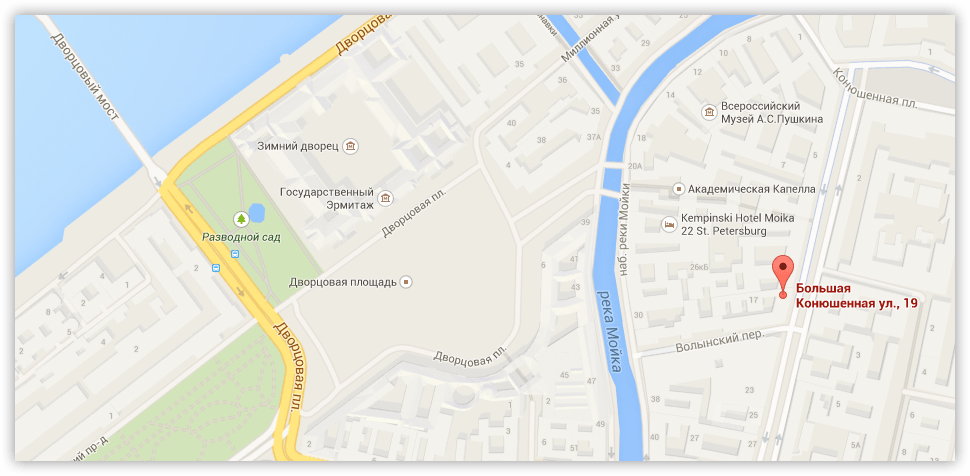
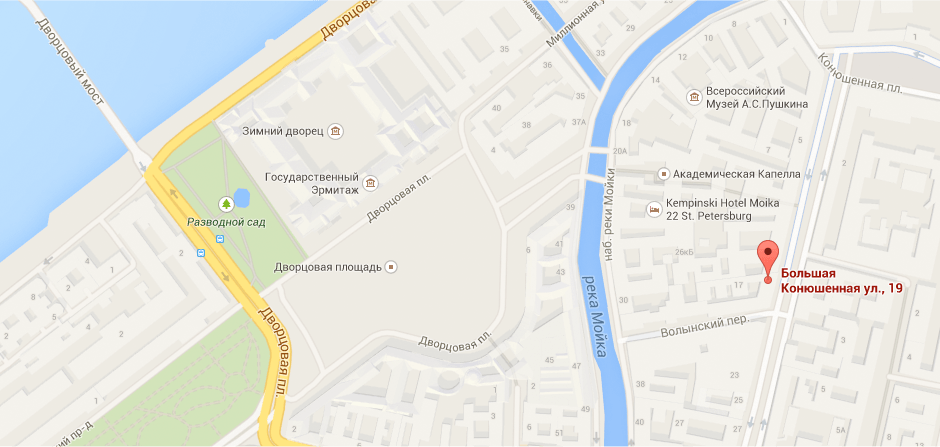
Разметил popup-окна и блок с фильтром

diff --git a/catalog.html b/catalog.html
@@ -61,12 +61,53 @@
       </ul>
       <h1>Перфораторы</h1>
       <div class="catalog-middle">
-        <aside class="sidebar">
-          <!-- Форма с фильтром -->
-        </aside>
+        <section class="sidebar">
+          <h2 class="horiz-pannel title-pannel">Фильтр:</h2><!-- У класса .title-pannel будет псевдоэлемент ::after c content: ":" -->
+          <!-- Форма фильтра -->
+          <form action="" method="GET" class="form-filter">
+            <fieldset>
+              <legend class="title-pannel">Цена:</legend>
+              <!-- здесь будет элемент фильтра по цене -->
+            </fieldset>
+            <fieldset>
+              <legend class="title-pannel">Производители:</legend>
+              <ul class="options-list">
+                <li class="option-item">
+                  <input type="checkbox" name="brand-bosch" id="brand-bosch" value="BOSCH" checked><label for="brand-bosch">BOSCH</label>
+                </li>
+                <li class="option-item">
+                  <input type="checkbox" name="brand-interskol" id="brand-interskol" value="ИНТЕРСКОЛ"><label for="brand-interskol">ИНТЕРСКОЛ</label>
+                </li>
+                <li>
+                  <input type="checkbox" name="brand-makita" id="brand-makita" value="MAKITA" checked><label for="brand-makita">MAKITA</label>
+                </li>
+                <li class="option-item">
+                  <input type="checkbox" name="brand-dewalt" id="brand-dewalt" value="Dewalt"><label for="brand-dewalt">Dewalt</label>
+                </li>
+                <li class="option-item">
+                  <input type="checkbox" name="brand-hitachi" id="brand-hitachi" value="Hitachi"><label for="brand-hitachi">Hitachi</label>
+                </li>
+              </ul>
+            </fieldset>
+            <fieldset>
+              <legend class="title-pannel">Питание:</legend>
+              <ul class="options-list">
+                <li class="option-item">
+                  <input type="radio" name="powertype" id="powertype-battery" value="Аккумуляторные" checked>
+                  <label for="powertype-battery">Аккумуляторные</label>
+                </li>
+                <li class="option-item">
+                  <input type="radio" name="powertype" id="powertype-utility" value="Сетевые">
+                  <label for="powertype-utility">Сетевые</label>
+                </li>
+              </ul>
+            </fieldset>
+            <button type="submit" class="btn-option btn">Показать</button>
+          </form>
+        </section>
         <section class="main-content">
           <div class="horiz-pannel">
-            <p class="title-pannel">Сортировка:</p>
+            <p class="title-pannel">Сортировка:</p><!-- У класса .title-pannel будет псевдоэлемент ::after c content: ":" -->
             <ul>
               <li>
                 <a href="" class="sort-price">По цене</a>
@@ -97,8 +138,8 @@
               <del class="product-price-old">22500 Р.</del>
               <ins class="product-price">15500 Р.</ins>
               <div class="product-item-buttons">
-                <button class="btn-buy btn">Купить</button>
-                <button class="btn-bookmark-add btn">В закладки</button>
+                <button type="button" class="btn-buy btn">Купить</button>
+                <button type="button" class="btn-bookmark-add btn">В закладки</button>
               </div>
             </li>
             <li  class="product-item">
@@ -107,8 +148,8 @@
               <del class="product-price-old">30500 Р.</del>
               <ins class="product-price">25500 Р.</ins>
               <div class="product-item-buttons">
-                <button class="btn-buy btn">Купить</button>
-                <button class="btn-bookmark-add btn">В закладки</button>
+                <button type="button" class="btn-buy btn">Купить</button>
+                <button type="button" class="btn-bookmark-add btn">В закладки</button>
               </div>
             </li>
             <li  class="product-item product-item-new">
@@ -116,8 +157,8 @@
               <img class="poduct-image" src="img/perforator-4.jpg" width="218" height="170" alt="Перфоратор BOSCH BFG 2000">
               <ins class="product-price-old">12500 Р.</ins>
               <div class="product-item-buttons">
-                <button class="btn-buy btn">Купить</button>
-                <button class="btn-bookmark-add btn">В закладки</button>
+                <button type="button" class="btn-buy btn">Купить</button>
+                <button type="button" class="btn-bookmark-add btn">В закладки</button>
               </div>
             </li>
             <li  class="product-item">
@@ -126,8 +167,8 @@
               <del class="product-price-old">22500 Р.</del>
               <ins class="product-price">15500 Р.</ins>
               <div class="product-item-buttons">
-                <button class="btn-buy btn">Купить</button>
-                <button class="btn-bookmark-add btn">В закладки</button>
+                <button type="button" class="btn-buy btn">Купить</button>
+                <button type="button" class="btn-bookmark-add btn">В закладки</button>
               </div>
             </li>
             <li  class="product-item product-item-new">
@@ -136,8 +177,8 @@
               <del class="product-price-old">30500 Р.</del>
               <ins class="product-price">25500 Р.</ins>
               <div class="product-item-buttons">
-                <button class="btn-buy btn">Купить</button>
-                <button class="btn-bookmark-add btn">В закладки</button>
+                <button type="button" class="btn-buy btn">Купить</button>
+                <button type="button" class="btn-bookmark-add btn">В закладки</button>
               </div>
             </li>
             <li  class="product-item">
@@ -145,8 +186,8 @@
               <img class="poduct-image" src="img/perforator-4.jpg" width="218" height="170" alt="Перфоратор BOSCH BFG 2000">
               <ins class="product-price-old">12500 Р.</ins>
               <div class="product-item-buttons">
-                <button class="btn-buy btn">Купить</button>
-                <button class="btn-bookmark-add btn">В закладки</button>
+                <button type="button" class="btn-buy btn">Купить</button>
+                <button type="button" class="btn-bookmark-add btn">В закладки</button>
               </div>
             </li>
             <li  class="product-item product-item-new">
@@ -155,8 +196,8 @@
               <del class="product-price-old">22500 Р.</del>
               <ins class="product-price">15500 Р.</ins>
               <div class="product-item-buttons">
-                <button class="btn-buy btn">Купить</button>
-                <button class="btn-bookmark-add btn">В закладки</button>
+                <button type="button" class="btn-buy btn">Купить</button>
+                <button type="button" class="btn-bookmark-add btn">В закладки</button>
               </div>
             </li>
             <li  class="product-item">
@@ -165,8 +206,8 @@
               <del class="product-price-old">30500 Р.</del>
               <ins class="product-price">25500 Р.</ins>
               <div class="product-item-buttons">
-                <button class="btn-buy btn">Купить</button>
-                <button class="btn-bookmark-add btn">В закладки</button>
+                <button type="button" class="btn-buy btn">Купить</button>
+                <button type="button" class="btn-bookmark-add btn">В закладки</button>
               </div>
             </li>
             <li  class="product-item">
@@ -174,8 +215,8 @@
               <img class="poduct-image" src="img/perforator-4.jpg" width="218" height="170" alt="Перфоратор BOSCH BFG 2000">
               <ins class="product-price-old">12500 Р.</ins>
               <div class="product-item-buttons">
-                <button class="btn-buy btn">Купить</button>
-                <button class="btn-bookmark-add btn">В закладки</button>
+                <button type="button" class="btn-buy btn">Купить</button>
+                <button type="button" class="btn-bookmark-add btn">В закладки</button>
               </div>
             </li>
           </ul>
@@ -198,6 +239,20 @@
       </div>
     </section>
   </main>
+
+  <section class="popup-feedback popup">
+    <h2 class="visually-hidden">Товар в корзине</h2>
+    <div class="popup-content">
+      <p class="popup-msg popup-msg-good">
+        Товар добавлен в корзину!
+      </p>
+    </div>
+    <div class="popup-buttons">
+      <a href="" class="btn">Оформить заказ</a> <!-- Это, похоже, ссылка на страницу оформления заказа -->
+      <button class="btn btn-white" type="button">Продолжить покупки</button>
+    </div>
+    <button class="btn-popup-close" type="button">Закрыть</button>
+  </section>
 
   <footer class="main-footer">
     <div class="footer-top-bg">

diff --git a/index.html b/index.html
@@ -107,8 +107,8 @@
             </li>
           </ul>
           <a class="btn" href="catalog.html">Открыть каталог</a>
-          <button class="arrow-left">Влево</button>
-          <button class="arrow-right">Вправо</button>
+          <button class="arrow-left" type="button">Влево</button>
+          <button class="arrow-right" type="button">Вправо</button>
         </li>
       </ul>
     </section>
@@ -124,8 +124,8 @@
           <del class="product-price-old">32500 Р.</del>
           <ins class="product-price">22500 Р.</ins>
           <div class="product-item-buttons">
-            <button class="btn-buy btn">Купить</button>
-            <button class="btn-bookmark-add btn">В закладки</button>
+            <button type="button" class="btn-buy btn">Купить</button>
+            <button type="button" class="btn-bookmark-add btn">В закладки</button>
           </div>
         </li>
         <li  class="product-item">
@@ -134,8 +134,8 @@
           <del class="product-price-old">22500 Р.</del>
           <ins class="product-price">15500 Р.</ins>
           <div class="product-item-buttons">
-            <button class="btn-buy btn">Купить</button>
-            <button class="btn-bookmark-add btn">В закладки</button>
+            <button type="button" class="btn-buy btn">Купить</button>
+            <button type="button" class="btn-bookmark-add btn">В закладки</button>
           </div>
         </li>
         <li  class="product-item">
@@ -144,8 +144,8 @@
           <del class="product-price-old">30500 Р.</del>
           <ins class="product-price">25500 Р.</ins>
           <div class="product-item-buttons">
-            <button class="btn-buy btn">Купить</button>
-            <button class="btn-bookmark-add btn">В закладки</button>
+            <button type="button" class="btn-buy btn">Купить</button>
+            <button type="button" class="btn-bookmark-add btn">В закладки</button>
           </div>
         </li>
         <li  class="product-item product-item-new">
@@ -153,8 +153,8 @@
           <img class="poduct-image" src="img/perforator-4.jpg" width="218" height="170" alt="Перфоратор BOSCH BFG 2000">
           <ins class="product-price-old">12500 Р.</ins>
           <div class="product-item-buttons">
-            <button class="btn-buy btn">Купить</button>
-            <button class="btn-bookmark-add btn">В закладки</button>
+            <button type="button" class="btn-buy btn">Купить</button>
+            <button type="button" class="btn-bookmark-add btn">В закладки</button>
           </div>
         </li>
        </ul>
@@ -264,12 +264,46 @@
         <p>Вы можете забрать товар сами, 
         заехав в наш офис:</p>
         <a class="link-mape" href="https://goo.gl/maps/71g7W4fCdjNoM2Tj8" target="_blank">
-          <img src="img/map.png" alt="Наше место положение на карте" width="300" height="158">
+          <img src="img/map.png" width="300" height="158" alt="Наше местоположение на карте: Большая Конюшенная улица, дом 19">
         </a>
-        <button class="btn">Заблудились? Напишите нам!</button>
+        <button class="btn" type="button">Заблудились? Напишите нам!</button>
       </section>
     </div>
   </main>
+
+  <section class="popup-map popup">
+    <h2 class="visually-hidden">Наше местоположение</h2>
+    <div class="popup-image">
+      <img src="img/map-popup.png" width="940" height="447" alt="Наше местоположение на карте: Большая Конюшенная улица, дом 19">
+    </div>
+    <button class="btn-popup-close" type="button">Закрыть</button>
+  </section>
+
+  <section class="popup-feedback popup">
+    <h2 class="visually-hidden">Написать нам</h2>
+    <form action="" class="form-feedback" method="POST">
+      <div class="popup-content">
+        <label class="width-half"> <!--Блок на половину ширины-->
+          Ваше имя: <!-- Возможно, потом заверну в <span> -->
+          <input type="text" placeholder="Имя Фамилия" name="your-name"> 
+          <!-- Полагаю, что элементы ввода на сайте будут иметь один дизайн (форму поиска в шапке в расчет не беру).
+               Поэтому для текстовых "инпутов" и для textarea классы не указываю -->
+        </label>
+        <label class="width-half">
+          Ваш e-mail:
+          <input type="email" placeholder="email@example.com" name="email">
+        </label>
+        <label>
+          Текст письма:
+          <textarea name="message" cols="30" rows="10" placeholder="В свободной форме"></textarea>
+        </label>
+      </div>
+      <div class="popup-buttons">
+        <button class="btn" type="submit">Отправить</button>
+      </div>
+    </form>
+    <button class="btn-popup-close" type="button">Закрыть</button>
+  </section>
 
   <footer class="main-footer">
     <div class="footer-top-bg">

diff --git a/css/style.css b/css/style.css
@@ -29,5 +29,15 @@ a {
 /* --- */
 
 .visually-hidden { /* будет скрывать элементы */
-
+/*
+  position: absolute;
+  width: 1px;
+  height: 1px;
+  margin: -1px;
+  border: 0;
+  padding: 0;
+  clip: rect(0 0 0 0);
+  overflow: hidden;
+*/
 }
+
